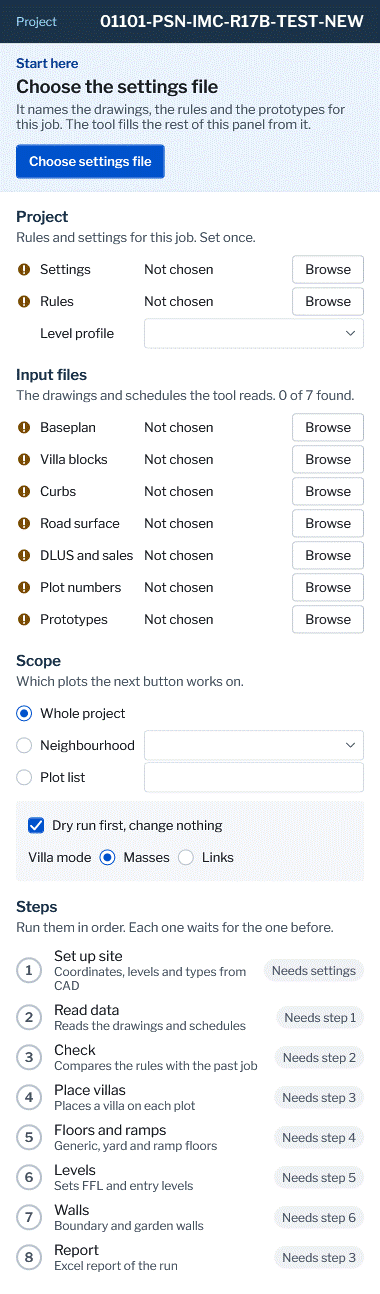
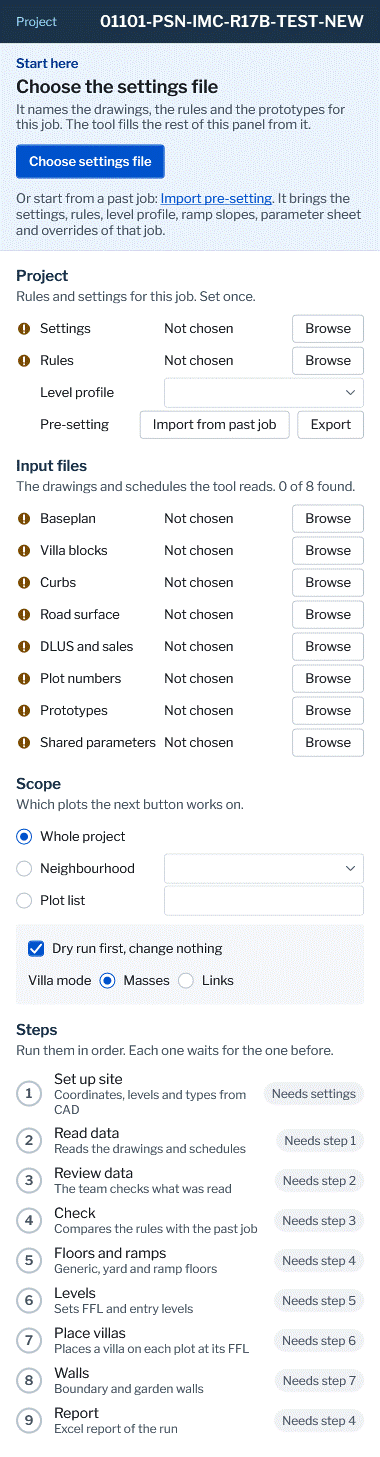
Lane B 5a PR 8: the PNGs of the new ribbon and pane, control 4 (R372)
ribbon-icons.png shows the 11 icons in the ribbon order, pane.png and pane-first-open.png the 9 steps, Shared parameters, Pre-setting and the line of a past job. Control 4 found the label Shared parameters cut at the label column of 104 and Export past the pane edge, so the label column is 124 and the two Pre-setting buttons stand right-aligned at the Browse edge. The README lists the differences that changed and the new ones.

Changed region(s): [[0.0, 0.0, 1.0, 0.9892]]

diff --git a/dotnet/SiteAdaptation.AddIn/Pane/SitePanePage.xaml b/dotnet/SiteAdaptation.AddIn/Pane/SitePanePage.xaml
@@ -196,7 +196,8 @@
             <TextBlock Grid.Column="1" Style="{StaticResource SA.Type.Body}" VerticalAlignment="Center" Text="Level profile" />
             <ComboBox Grid.Column="2" Style="{StaticResource SA.Pane.Combo}" ItemsSource="{Binding LevelProfiles}" SelectedItem="{Binding LevelProfile}" />
           </Grid>
-          <!-- Bader, 28 Oct 2026: the row Pre-setting under Level profile. A pre-setting never holds drawing paths or coordinates -->
+          <!-- Bader, 28 Oct 2026: the row Pre-setting under Level profile. A pre-setting never holds drawing paths or coordinates.
+               The two buttons are wider than the value column, so they stand at the right edge as Browse does -->
           <Grid Height="{StaticResource SA.Size.Row}">
             <Grid.ColumnDefinitions>
               <ColumnDefinition Width="{StaticResource SA.Grid.Mark}" />
@@ -204,11 +205,10 @@
               <ColumnDefinition Width="*" />
             </Grid.ColumnDefinitions>
             <TextBlock Grid.Column="1" Style="{StaticResource SA.Type.Body}" VerticalAlignment="Center" Text="Pre-setting" />
-            <StackPanel Grid.Column="2" Orientation="Horizontal" VerticalAlignment="Center">
-              <Button Style="{StaticResource SA.Button.Base}" Padding="{StaticResource SA.Pad.ButtonPair}" Margin="{StaticResource SA.Gap.Right8}"
-                      Content="{x:Static pane:PaneText.ImportPastJob}" Command="{Binding ImportCommand}" />
-              <Button Style="{StaticResource SA.Button.Base}" Padding="{StaticResource SA.Pad.ButtonPair}" Content="{x:Static pane:PaneText.Export}"
-                      Command="{Binding ExportCommand}" />
+            <StackPanel Grid.Column="1" Grid.ColumnSpan="2" Orientation="Horizontal" HorizontalAlignment="Right" VerticalAlignment="Center">
+              <Button Style="{StaticResource SA.Button.Base}" Margin="{StaticResource SA.Gap.Right8}" Content="{x:Static pane:PaneText.ImportPastJob}"
+                      Command="{Binding ImportCommand}" />
+              <Button Style="{StaticResource SA.Button.Base}" Content="{x:Static pane:PaneText.Export}" Command="{Binding ExportCommand}" />
             </StackPanel>
           </Grid>
         </StackPanel>

diff --git a/dotnet/SiteAdaptation.AddIn/Theme/Theme.xaml b/dotnet/SiteAdaptation.AddIn/Theme/Theme.xaml
@@ -128,8 +128,6 @@
   <Thickness x:Key="SA.Pad.Panel">12,8,12,8</Thickness>
   <Thickness x:Key="SA.Pad.Chip">8,4,8,4</Thickness>
   <Thickness x:Key="SA.Pad.Button">12,0,12,0</Thickness>
-  <!-- Two buttons on one row of the value column fit the pane at 380 with 8 across only -->
-  <Thickness x:Key="SA.Pad.ButtonPair">8,0,8,0</Thickness>
   <Thickness x:Key="SA.Gap.Top4">0,4,0,0</Thickness>
   <Thickness x:Key="SA.Gap.Top8">0,8,0,0</Thickness>
   <Thickness x:Key="SA.Gap.Top12">0,12,0,0</Thickness>
@@ -146,7 +144,8 @@
   <sys:Double x:Key="SA.Size.RadioDot">8</sys:Double>
   <Geometry x:Key="SA.Mark.Down">M0 0l4 4l4-4</Geometry>
   <GridLength x:Key="SA.Grid.Mark">24</GridLength>
-  <GridLength x:Key="SA.Grid.Label">104</GridLength>
+  <!-- The widest row label, Shared parameters at 116 in SA.Type.Body, and a gap of 8 -->
+  <GridLength x:Key="SA.Grid.Label">124</GridLength>
   <GridLength x:Key="SA.Grid.StepMark">38</GridLength>
   <Geometry x:Key="SA.Mark.Found">M3 8.5l3.5 3.5l6.5-8</Geometry>
   <Geometry x:Key="SA.Mark.Missing">M2 8a6 6 0 1 0 12 0a6 6 0 1 0 -12 0z</Geometry>

diff --git a/dotnet/SiteAdaptation.Tests/UiShotTests.cs b/dotnet/SiteAdaptation.Tests/UiShotTests.cs
@@ -126,6 +126,7 @@ namespace SiteAdaptation.Tests
 
                     Assert.Equal(at(label("Level profile")).Y + 32, at(label("Pre-setting")).Y, 3);
                     Assert.Equal(at(label("Prototypes")).Y + 32, at(label("Shared parameters")).Y, 3);
+                    Assert.Equal(inUse ? "The drawings and schedules the tool reads. All 8 found." : "The drawings and schedules the tool reads. 0 of 8 found.", Model(page).InputHelp);
                     Assert.True(at(label("Pre-setting")).Y < at(label("Input files")).Y);
                     foreach (string text in new[] { PaneText.ImportPastJob, PaneText.Export })
                     {
@@ -134,6 +135,23 @@ namespace SiteAdaptation.Tests
                         Assert.Equal(at(label("Pre-setting")).Y + label("Pre-setting").ActualHeight / 2, at(button).Y + button.ActualHeight / 2, 1);
                         Assert.True(at(button).X + button.ActualWidth <= page.ActualWidth - 16, text + " runs past the pane at " + (at(button).X + button.ActualWidth));
                         Assert.Same(text == PaneText.Export ? Model(page).ExportCommand : Model(page).ImportCommand, button.Command);
+                    }
+                    Button import = all.OfType<Button>().Single(item => PaneText.ImportPastJob.Equals(item.Content));
+                    Button export = all.OfType<Button>().Single(item => PaneText.Export.Equals(item.Content));
+                    Assert.Equal(page.ActualWidth - 16, at(export).X + export.ActualWidth, 1);
+                    Assert.True(at(import).X >= at(label("Pre-setting")).X + label("Pre-setting").DesiredSize.Width + 8, "Import from past job stands on the label");
+                    ComboBox profile = all.OfType<ComboBox>().First();
+                    double gap = at(import).Y - (at(profile).Y + profile.ActualHeight);
+                    Assert.Equal(3.0, gap, 3);
+                    counts.Add((inUse ? "in use" : "first open") + ": Import from past job at x " + at(import).X + ", " + gap + " under Level profile");
+
+                    // Every row label shows in full, Shared parameters the widest, with a gap of 8 before the file name
+                    double column = ((GridLength)page.FindResource("SA.Grid.Label")).Value;
+                    foreach (string text in Model(page).InputRows.Select(row => row.Label).Concat(new[] { "Settings", "Rules", "Level profile", "Pre-setting" }))
+                    {
+                        var measure = new TextBlock { Text = text, Style = (Style)page.FindResource("SA.Type.Body") };
+                        measure.Measure(new Size(double.PositiveInfinity, double.PositiveInfinity));
+                        Assert.True(measure.DesiredSize.Width + 8 <= column, text + " is " + measure.DesiredSize.Width + " wide in a column of " + column);
                     }
 
                     TextBlock pastJob = all.OfType<TextBlock>().Single(block => new TextRange(block.ContentStart, block.ContentEnd).Text == line);

diff --git a/dotnet/SiteAdaptation.UiShots/Shots.cs b/dotnet/SiteAdaptation.UiShots/Shots.cs
@@ -177,7 +177,8 @@ namespace SiteAdaptation.UiShots
     }
 
     // The mock's NBH 012 column of docs/design/07-mock.md 7.2 with file names only, no real path, coordinate or level. The size
-    // and the hash of Plot numbers are the mock's, every other size and hash is a sample value, steps/ui-shots/README.md
+    // and the hash of Plot numbers are the mock's, every other size and hash is a sample value, steps/ui-shots/README.md. The mock
+    // has no parameter sheet, its name is a sample name
     internal static class Sample
     {
         public const string Nbh = "012";
@@ -195,6 +196,7 @@ namespace SiteAdaptation.UiShots
             { "PSN-ZZZ-XXX-SCH-TM-000201- DLUS Schedule_(Rev9)_Accomodation_Schedule.xlsx", Tuple.Create(838861L, (string)null) },
             { "01101-PSN-ZZZ-XXX-DWG-TU-005000.pdf", Tuple.Create(3056293L, "7061ac0d") },
             { "Prototypes_2024", Tuple.Create(1076887552L, (string)null) },
+            { "Parameter sheet.xlsx", Tuple.Create(52224L, (string)null) },
         };
 
         public static DocumentSession Document()
@@ -218,6 +220,7 @@ namespace SiteAdaptation.UiShots
             settings.Pick(InputKeys.Sales, Folder + "PSN-ZZZ-XXX-SCH-TM-000201- DLUS Schedule_(Rev9)_Accomodation_Schedule.xlsx");
             settings.Pick(InputKeys.PlotNumbers, Folder + "01101-PSN-ZZZ-XXX-DWG-TU-005000.pdf");
             settings.Pick(InputKeys.Prototypes, Folder + "Prototypes_2024");
+            settings.Pick(InputKeys.ParameterSheet, Folder + "Parameter sheet.xlsx");
             return settings;
         }
 

diff --git a/steps/ui-shots/README.md b/steps/ui-shots/README.md
@@ -6,11 +6,11 @@ Control 3 of docs/design/12-ui-spec.md, UI controls. Each PNG is a render of a w
 
 | File | Window | State |
 |---|---|---|
-| ribbon-icons.png | The eight ribbon icons, 32 px over 16 px, buttons 1 to 8 left to right | Draft |
-| pane.png | The pane in use, filled like the NBH 012 column of 7.2 of docs/design/07-mock.md | Draft |
-| pane-first-open.png | The pane on first open, no settings file chosen | Draft |
+| ribbon-icons.png | The 11 ribbon icons in the order of the ribbon, 32 px over 16 px: 1 to 4, Site Adaptation Rules, 5 to 9, Update from report | Draft |
+| pane.png | The pane in use, filled like the NBH 012 column of 7.2 of docs/design/07-mock.md, its steps in the order of docs/design/13-workflow-changes.md | Draft |
+| pane-first-open.png | The pane on first open, no settings file chosen, with the line of a past job | Draft |
 
-Set up site comes in 5b and the check table in 5c.
+Bader's changes of 28 Oct 2026 (docs/design/13-workflow-changes.md) were rendered into all three in Lane B 5a PR 8. Set up site comes in 5b (W1 of steps/lane-b.md), the check table, Review data and Site Adaptation Rules in 5c (W5), Update from report in 5f (W8). 5a builds none of these windows, so none has a PNG yet.
 
 ## Render them again
 
@@ -25,12 +25,12 @@ The command line and the picture tests call the one entry Shots.Render of dotnet
 
 ## Sample data
 
-The project name 01101-PSN-IMC-R17B-TEST-NEW and the file and folder names are the mock's, on a made up folder C:\Sample. The size 2.91 MiB and the short hash 7061ac0d of Plot numbers are the mock's. Every other size and short hash is a sample value, a hash of the file name, not of a real file. The steps are the mock's state after buttons 1 to 3 on NBH 012. No coordinate and no level is shown.
+The project name 01101-PSN-IMC-R17B-TEST-NEW and the file and folder names are the mock's, on a made up folder C:\Sample. The size 2.91 MiB and the short hash 7061ac0d of Plot numbers are the mock's. Every other size and short hash is a sample value, a hash of the file name, not of a real file. The mock has no parameter sheet, so its name "Parameter sheet.xlsx" and its size are sample values too. The steps are the mock's state after its buttons 1 to 3 on NBH 012, put in the new order: Set up site, Read data and Review data done, Check with 1,247 issues, Floors and ramps next, Report ready since it needs 4 only (CHOSEN, the mock has no Review data, so Code marks it done). No coordinate and no level is shown.
 
 
-## Control 4, the pane against docs/design/12-ui-spec.md
+## Control 4, the pane and the ribbon against docs/design/12-ui-spec.md
 
-Code went through 7.2 and the parts Rules, Font, Colours and Sizes line by line against dotnet/SiteAdaptation.AddIn/Pane/SitePanePage.xaml. The test R372_the_pane_has_rows_32_inputs_30_with_radius_3_and_the_project_name_at_the_right_of_the_band reads the sizes off the laid out pane.
+Code went through 7.1, 7.2 and the parts Rules, Font, Colours, Sizes and Icons of docs/design/12-ui-spec.md, and the parts Order, Ribbon, Pane and UI controls of docs/design/13-workflow-changes.md, line by line against dotnet/SiteAdaptation.AddIn/Pane/SitePanePage.xaml, Theme/Theme.xaml, App/RibbonLayout.cs and the PNGs. The test R372_the_pane_has_rows_32_inputs_30_with_radius_3_and_the_project_name_at_the_right_of_the_band reads the sizes off the laid out pane, R372_the_pane_shows_pre_setting_under_level_profile_shared_parameters_after_prototypes_and_the_past_job_line_on_first_open the rows of 28 Oct 2026.
 
 ### Fixed in the XAML
 
@@ -42,35 +42,46 @@ Code went through 7.2 and the parts Rules, Font, Colours and Sizes line by line 
 6. Villa mode. The row stands directly under the Dry run checkbox, inside its SA.Panel box. Code takes that as "under the Dry run checkbox": outside the box it would stand under the box.
 7. Review 1 of PR 90: the sections stand 16 apart, a value of the scale 4, 8, 12, 16, 24 of the spec, where SA.Pad.Section 16,16,16,4 gave 20 before.
 8. Review 1 of PR 90: the Neighbourhood drop down and the Plot list box start at the x of the Level profile drop down, in the value column of the rows.
+9. PR 8: the label "Shared parameters" is 116 wide in SA.Type.Body and was cut at the label column of 104 ("Shared paramete"). The label column is now 124, the widest label and a gap of 8, for every row, so the value columns stay in one line. The file names lose 20 px.
+10. PR 8: Import from past job and Export are 224 wide with the Browse padding and the gap of 8, more than the value column of 200 at 380 wide. In the value column Export ran past the edge of the pane at 368 of 364. They now stand right-aligned at the edge of the Browse buttons, Import from past job 31 px after the end of "Pre-setting".
 
 ### Not changed, each with its reason
 
 1. QL9, tabular figures. Libre Franklin has no tnum feature, so the digits are proportional, as in the sizes and the step chips. Bader's question.
-2. QL10, icon 4. The hole of the pin is drawn as written, white with the 2 wide SA.Heading stroke, so it shows a navy dot. Bader's question.
+2. QL10, the icon of 7 Place villas, 4 before the new order. The hole of the pin is drawn as written, white with the 2 wide SA.Heading stroke, so it shows a navy dot. Bader's question.
 3. These are offscreen renders, not the Revit screenshots the spec asks for each window. The Revit screenshots come with the run in Revit of PR 6.
 4. The pane may still open wider than 380 in Revit, since MinimumWidth is a least width. UNKNOWN until the Revit run. The PNG is exactly 380 wide. QL13 of steps/lane-b.md.
-5. At 380 wide, with the label column and Browse, a long file name is cut with an ellipsis and its grey run with it. In pane.png the size and hash show in full on 0 of 9 rows. So the tooltip gives the size and hash again under the full path (CHOSEN). The spec sets the width, the row and the run, so this is open to Bader as QL15.
+5. At 380 wide, with the label column and Browse, a long file name is cut with an ellipsis and its grey run with it. In pane.png the size and hash show in full on 0 of 10 rows. So the tooltip gives the size and hash again under the full path (CHOSEN). The spec sets the width, the row and the run, so this is open to Bader as QL15.
 6. The primary button matches every value the spec gives: 34 high, white text on SA.Accent, SemiBold, radius 3. The spec gives no width or place, so it stands left under the line, as wide as its text.
 7. The Next step line. The spec asks one plain line on what the step does and whether dry run is on or off and gives no words. Code writes the step's plain line, then "Dry run is on." or "Dry run is off." (CHOSEN, docs/design/13-ui-labels.md).
 8. While a large file is hashed, off the UI thread, its row shows the size alone, "<n> MiB" (CHOSEN).
 9. The Settings row tooltip shows the full path only. docs/design/06-settings.md has it show the override file and the work folder too, from the config file, which 5a does not read (join J1 of 5c).
-10. The Level profile row has no mark. The spec gives the marks to rows of a file, and a level profile is no file.
+10. The Level profile and Pre-setting rows have no mark. The spec gives the marks to rows of a file, and a level profile is no file, nor is a pre-setting until R367 at 5c.
 11. The step rows are about 38 high, not 32, since the spec puts the plain line under the step name. On first open the line of step 1 wraps beside the wide chip "Needs settings". QL14.
-12. The label column is 104 wide, the mark column 24, the step mark column 38. The spec gives no widths (CHOSEN).
+12. The label column is 124 wide, the mark column 24, the step mark column 38. The spec gives no widths (CHOSEN).
 13. The chip colours by status: Done SA.Ok, issues SA.Warn, Ready SA.Info, Needs step and Needs settings SA.Wait. The spec names the chip texts, not their colours (CHOSEN).
-14. A step that is Ready but not the next one keeps the grey outline, as 8 Report in pane.png. The spec names the outline of the next step and of a waiting one only.
+14. A step that is Ready but not the next one keeps the grey outline, as 9 Report in pane.png. The spec names the outline of the next step and of a waiting one only.
 15. The sections have no line between them. The spec gives none.
 16. With no document open the controls and the buttons are grey and the text blocks keep their colour. 7.2 of the mock asks every button grey, nothing more.
 17. The list of a drop down, when open, keeps the item look of WPF. It is not in a PNG.
 18. A PNG is in a palette of 256 colours, so the edges of the text may differ a little from a screen.
-19. The band and the Next step box stay at the top and do not scroll, only the sections under them do. The spec gives the order top to bottom and says nothing of scrolling (CHOSEN, so the next step stays in sight).
+19. The band and the Next step box stay at the top and do not scroll, only the sections under them do. The spec gives the order top to bottom and says nothing of scrolling (CHOSEN, so the next step stays in sight). On first open the line of a past job, 47 px high and 12 under the button, makes the box 59 px higher.
 20. The number in a step mark is SA.Type.Label, 13 SemiBold, in SA.Surface on a filled mark, SA.Accent in the mark of the next step and SA.TextMuted in a waiting one. The spec gives the mark 26 and its fill and outline, not the type or colour of its number (CHOSEN).
 21. The outline of a step mark is 2 wide, the lines of the boxes, the inputs and the Browse buttons 1. The spec gives no line widths (CHOSEN).
 22. The chip text is SA.Type.Small, 12, with a padding of 8 across and 4 down. The spec gives the chip radius 12 and its texts, not its type or padding (CHOSEN).
-23. Browse is drawn in the look the spec gives Cancel, SA.Text with an SA.BorderStrong border on SA.Surface, 28 high. The spec names no look for Browse (CHOSEN).
+23. Browse is drawn in the look the spec gives Cancel, SA.Text with an SA.BorderStrong border on SA.Surface, 28 high. The spec names no look for Browse (CHOSEN). Import from past job and Export take the same look.
 24. The check box and the radio buttons are 16 across, the dot of a chosen radio button 8. The spec gives no size for them (CHOSEN).
 25. The tooltips and the scroll bar keep the look of Windows. The spec gives none.
 26. The Neighbourhood list is empty in Revit until button 2 reads the plot table, it lists the NBH codes of that table (7.2 of the mock). The 012 of pane.png is sample data.
 27. On first open the box says "The tool fills the rest of this panel from it.", while in 5a choosing the settings file fills only the Settings row. The rest fills from the config file with join J1 of 5c.
 28. The two dialogs of DLUS and sales are titled "DLUS schedule" and "Sales schedule", one for each workbook by its role (CHOSEN in review 1 of PR 90, docs/design/13-ui-labels.md).
-29. Two inputs on stacked rows stand 2 px apart, the Neighbourhood drop down and the Plot list box, and the Rules Browse and the Level profile drop down 3 px, off the spacing scale 4, 8, 12, 16, 24. The spec gives rows 32 and inputs 30, so no gap of the scale can stand between them while both hold. QL16 of steps/lane-b.md.
+29. Two inputs on stacked rows stand 2 px apart, the Neighbourhood drop down and the Plot list box, and 3 px the Rules Browse and the Level profile drop down, and the Level profile drop down and the Pre-setting buttons, off the spacing scale 4, 8, 12, 16, 24. The spec gives rows 32, inputs 30 and buttons 28, so no gap of the scale can stand between them while all hold. QL16 of steps/lane-b.md.
+30. Icons. The accent strokes of 3 Review data and Update from report are given as "stroke SA.IconAccent 2.5" with no width at 16 px, where 4 Check gives "width 2.5 (3 at 16 px)". Code draws them 2.5 at both sizes, the 2.4 of the 16 px set being the default stroke only (CHOSEN, read so by ThemeGateTests).
+31. Icons. A button with no number has its icon keyed by its label with no spaces, SA.Icon.SiteAdaptationRules and SA.Icon.UpdateFromReport (CHOSEN).
+32. Ribbon. The labels Site Adaptation Rules and Update from report are long for a large button, and how Revit wraps them under the icon is UNKNOWN until a run in Revit. The ribbon is not in a PNG, only its icons.
+33. Ribbon. Site Adaptation Rules and Update from report run through the flow as a numbered button with no body does and say "<label> is not built yet." in a TaskDialog (CHOSEN in docs/design/13-workflow-changes.md). Their windows come in 5c and 5f.
+34. Pane. Import from past job, Export and the link Import pre-setting say "<label> is not built yet." in the TaskDialog of the ribbon buttons, raised through an external event as the box button is (CHOSEN in docs/design/13-workflow-changes.md, the logic joins R367 at 5c, W4). Not in a PNG.
+35. Pane. The line of a past job on first open is a help line, 13 SA.TextMuted, 12 under the button, with the link Import pre-setting in SA.Accent, underlined. The spec gives its words and what the link runs, not its look (CHOSEN). It is one line of three texts in the label list, the second the link.
+36. Pane. The parameter sheet is the input parameterSheet of the settings JSON. docs/design/06-settings.md gives it no key (CHOSEN).
+37. The label list keeps the check table title "3 Check, NBH <n>, <n> plots" and the Set up site line "Pass limit 1 mm. <n> of <n> pass" as 7.3 and 7.4 of docs/design/07-mock.md give them, where Bader's changes make them 4 Check and 0.1 mm. Neither window is built in 5a, so their entries change with 5b (W1) and 5c (W5) or the fold in.
+38. docs/addin-mock.md item 1 still names three panels and the old numbers. 7.1 of docs/design/12-ui-spec.md prevails (its Rules line 10), so the ribbon test reads 7.1. The mock changes at the fold in, item 11 of steps/lane-b.md.
